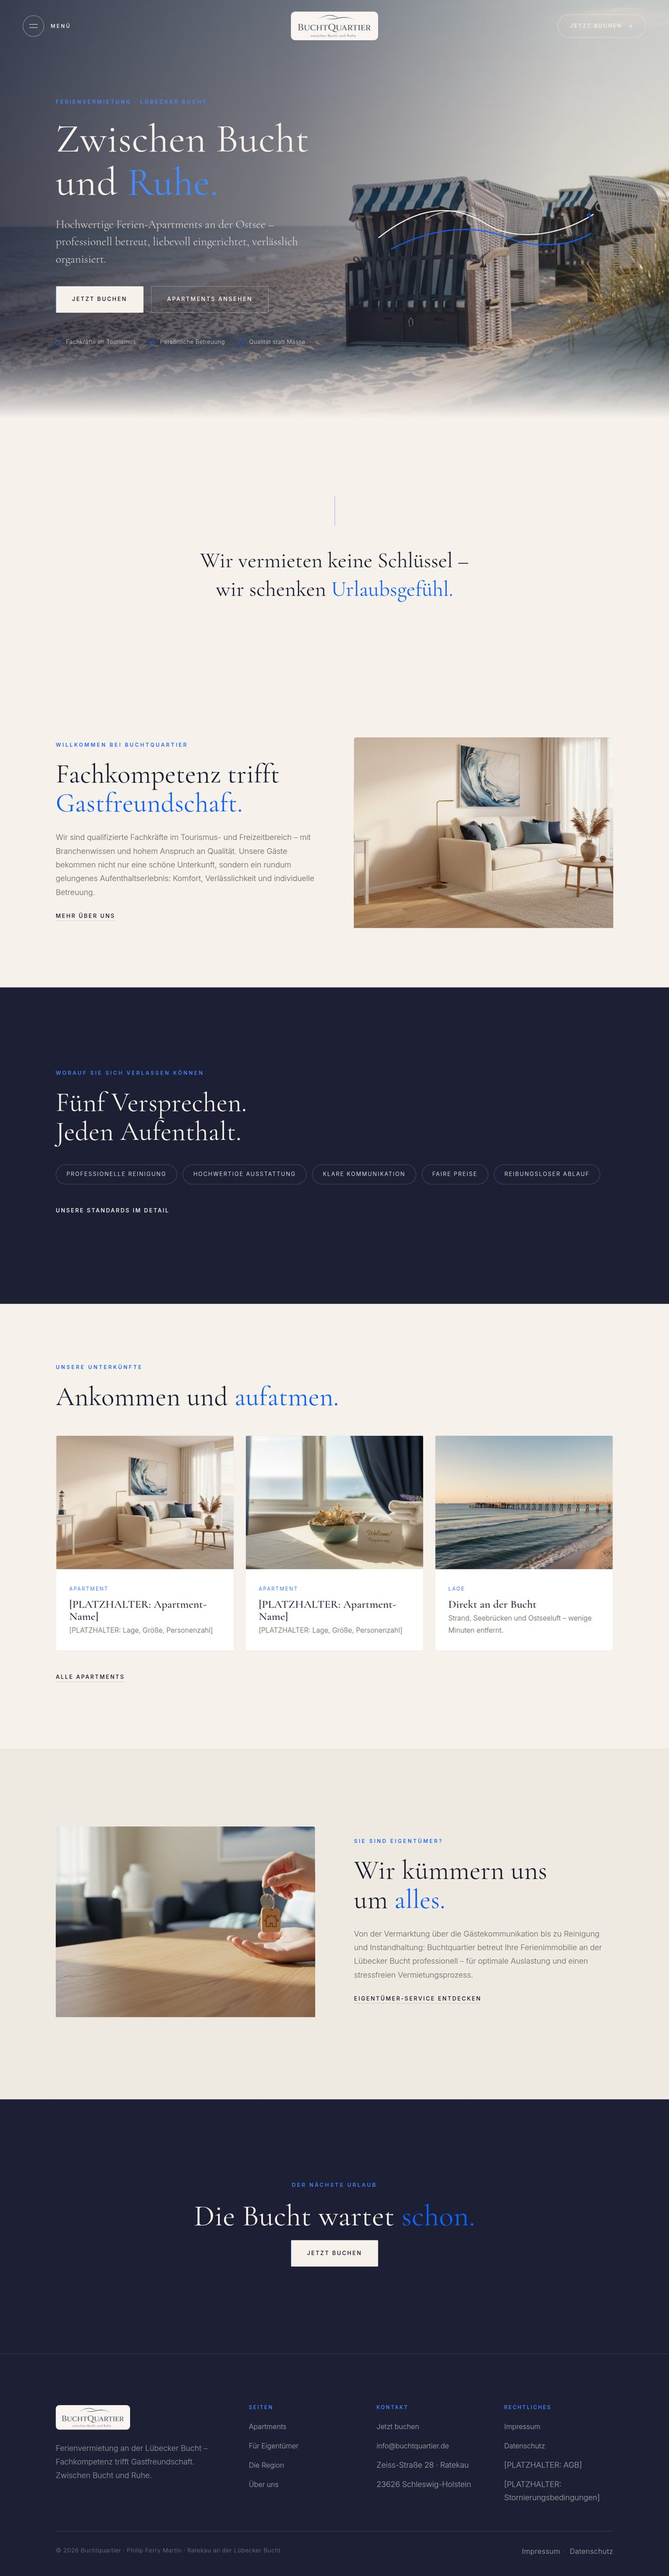
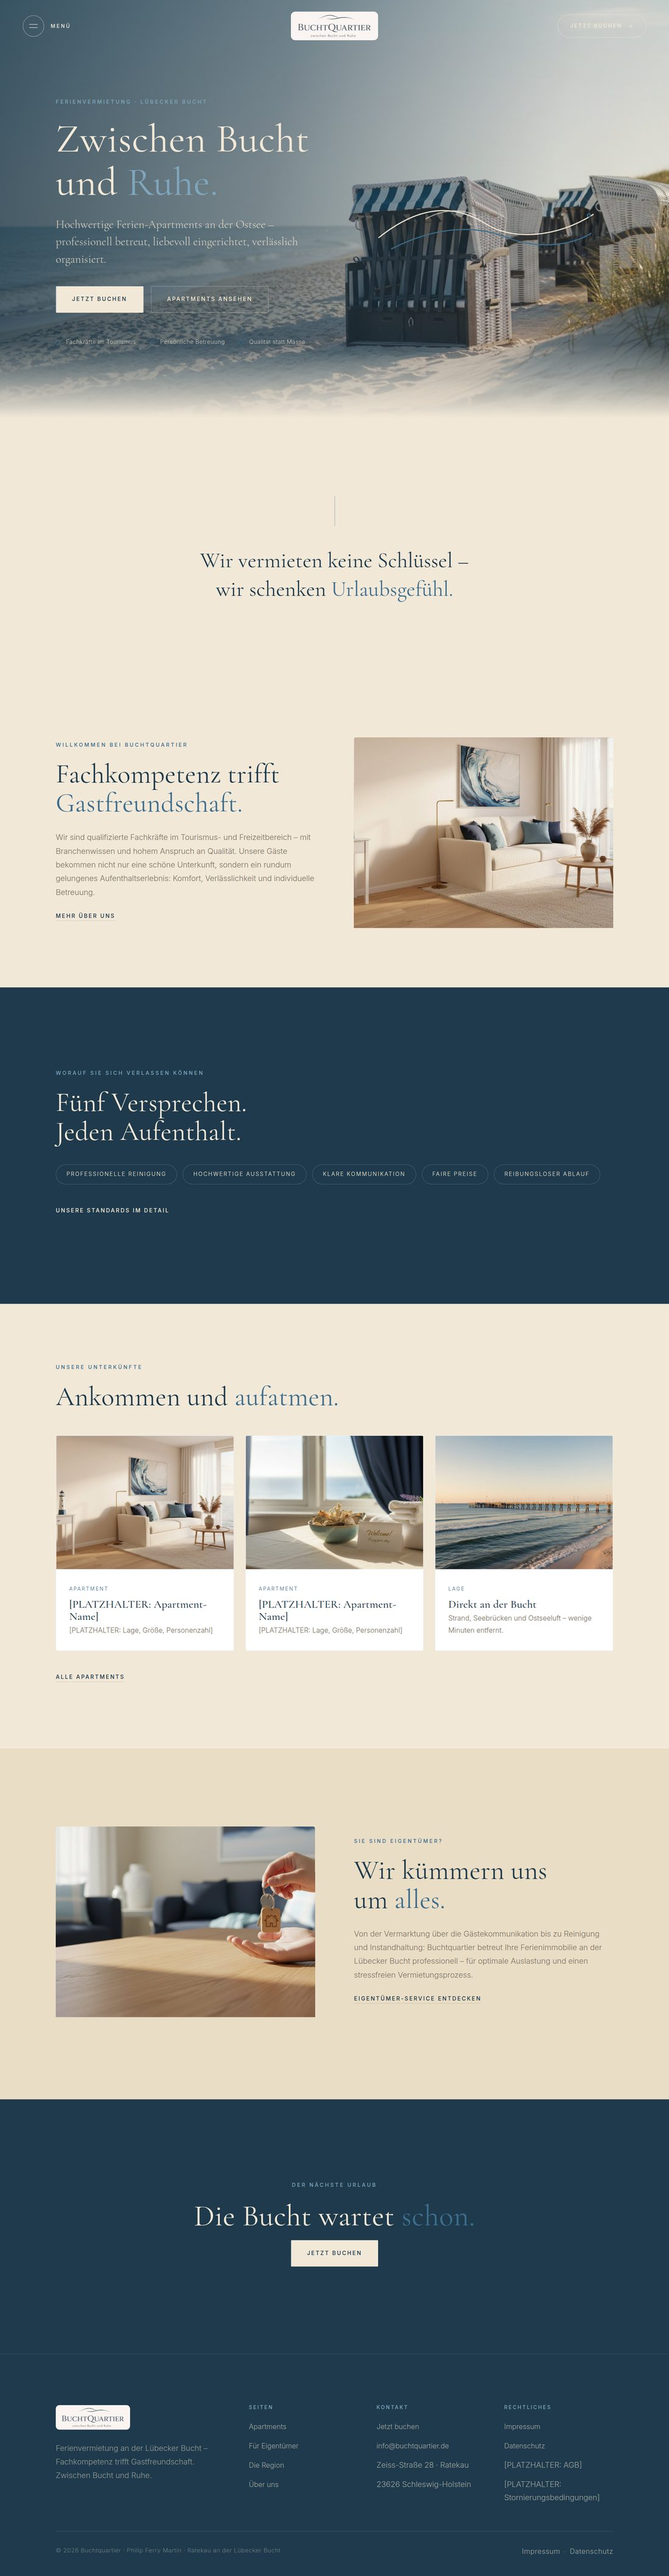
Buchtquartier: Sand-Palette mit dezentem Nautik-Blau (Strand & Erholung)
- Basis: warmer Sand #F2E8D8 / #EADDC6 statt Creme
- Dunkle Sektionen & Text: tiefes Nautik-Marine #1E3A4C statt Nachtblau-Schwarz
- Akzente: gedecktes Kuestenblau #3E6E8E / #7FA6BD statt Knallblau #0F62FE
- Linien, Veils und rgba-Werte konsistent nachgezogen

Claude-Session: https://claude.ai/code/session_019Zx2tMvw9H8ct4z7Y4RHUm

diff --git a/buchtquartier/css/style.css b/buchtquartier/css/style.css
@@ -5,19 +5,19 @@
    ============================================================ */
 
 :root {
-  --paper: #F7F1EB;      /* warmes Off-White (Basis) */
-  --paper-2: #EFEAE1;    /* etwas tiefer */
+  --paper: #F2E8D8;      /* warmes Off-White (Basis) */
+  --paper-2: #EADDC6;    /* etwas tiefer */
   --white: #FFFFFF;      /* Karten */
-  --night: #1D2035;      /* tiefes Nachtblau-Schwarz */
-  --night-2: #272B45;    /* Kontrast-Sektionen */
-  --gold: #0F62FE;       /* Champagner/Kupfer-Gold */
-  --gold-2: #4589FF;     /* helleres Gold (auf dunkel) */
-  --ink: #272B45;        /* Fließtext dunkel */
-  --muted: #6E6A63;      /* warmes Grau, Sekundärtext */
-  --muted-2: #9B958B;    /* noch leiser */
-  --line: rgba(27, 37, 48, 0.14);
-  --line-soft: rgba(27, 37, 48, 0.08);
-  --line-gold: rgba(15, 98, 254, 0.45);
+  --night: #1E3A4C;      /* tiefes Nachtblau-Schwarz */
+  --night-2: #27485D;    /* Kontrast-Sektionen */
+  --gold: #3E6E8E;       /* Champagner/Kupfer-Gold */
+  --gold-2: #7FA6BD;     /* helleres Gold (auf dunkel) */
+  --ink: #2E3A40;        /* Fließtext dunkel */
+  --muted: #7A7263;      /* warmes Grau, Sekundärtext */
+  --muted-2: #A89E8C;    /* noch leiser */
+  --line: rgba(62, 80, 90, 0.16);
+  --line-soft: rgba(62, 80, 90, 0.09);
+  --line-gold: rgba(62, 110, 142, 0.45);
   --serif: "Cormorant Garamond", Georgia, "Times New Roman", serif;
   --sans: "Inter", -apple-system, "Segoe UI", Arial, sans-serif;
   --header-h: 112px;
@@ -104,9 +104,9 @@ a:hover { color: var(--gold); }
 :focus-visible { outline: 2px solid var(--gold); outline-offset: 3px; }
 
 /* ---------- Kontrast-Sektionen (dunkel) ---------- */
-.dark { background: var(--night); color: rgba(247, 241, 235, 0.78); }
+.dark { background: var(--night); color: rgba(242, 232, 216, 0.78); }
 .dark h1, .dark h2, .dark h3, .dark h4 { color: var(--paper); }
-.dark .lead { color: rgba(247, 241, 235, 0.88); }
+.dark .lead { color: rgba(242, 232, 216, 0.88); }
 .dark a { color: var(--paper); }
 .dark a:hover { color: var(--gold-2); }
 .dark .eyebrow { color: var(--gold-2); }
@@ -129,9 +129,9 @@ a:hover { color: var(--gold); }
 }
 .site-header.solid .header-bar {
   width: 94%; height: 78px;
-  background: rgba(247, 241, 235, 0.94); backdrop-filter: blur(14px) saturate(1.1);
+  background: rgba(242, 232, 216, 0.94); backdrop-filter: blur(14px) saturate(1.1);
   border-radius: 0 0 22px 22px;
-  box-shadow: 0 30px 60px -40px rgba(29, 32, 53, 0.35);
+  box-shadow: 0 30px 60px -40px rgba(30, 58, 76, 0.35);
 }
 
 /* Logo-Lockup: Monogramm + Wortmarke + Unterzeile, absolut zentriert */
@@ -170,7 +170,7 @@ a:hover { color: var(--gold); }
   z-index: 320;
 }
 .mb-circle {
-  width: 46px; height: 46px; border: 1px solid rgba(29, 32, 53, 0.35);
+  width: 46px; height: 46px; border: 1px solid rgba(30, 58, 76, 0.35);
   border-radius: 50%; display: flex; flex-direction: column;
   align-items: center; justify-content: center; gap: 6px;
   transition: border-color 0.4s var(--ease), background 0.4s var(--ease);
@@ -185,7 +185,7 @@ a:hover { color: var(--gold); }
   letter-spacing: 0.26em; text-transform: uppercase; color: inherit;
 }
 body.nav-open .menu-btn { color: var(--paper); }
-body.nav-open .mb-circle { border-color: rgba(247, 241, 235, 0.55); }
+body.nav-open .mb-circle { border-color: rgba(242, 232, 216, 0.55); }
 body.nav-open .mb-circle span:nth-child(1) { transform: translateY(3.5px) rotate(45deg); }
 body.nav-open .mb-circle span:nth-child(2) { transform: translateY(-3.5px) rotate(-45deg); }
 
@@ -194,7 +194,7 @@ body.nav-open .mb-circle span:nth-child(2) { transform: translateY(-3.5px) rotat
   display: inline-flex; align-items: center; gap: 10px;
   font-family: var(--sans); font-size: 0.68rem; font-weight: 500;
   letter-spacing: 0.22em; text-transform: uppercase;
-  color: var(--night); border: 1px solid rgba(29, 32, 53, 0.35);
+  color: var(--night); border: 1px solid rgba(30, 58, 76, 0.35);
   border-radius: 999px; padding: 14px 26px;
   transition: background 0.4s var(--ease), color 0.4s var(--ease), border-color 0.4s var(--ease);
 }
@@ -218,7 +218,7 @@ body.nav-open .nav-overlay { opacity: 1; visibility: visible; transition-delay: 
 .main-nav a {
   display: inline-flex; align-items: baseline; gap: 18px;
   font-family: var(--serif); font-weight: 400;
-  font-size: clamp(1.7rem, 3.4vh, 2.5rem); color: rgba(247, 241, 235, 0.86);
+  font-size: clamp(1.7rem, 3.4vh, 2.5rem); color: rgba(242, 232, 216, 0.86);
   line-height: 1.2; transition: color 0.4s var(--ease), transform 0.5s var(--ease);
 }
 .main-nav .nl-num {
@@ -226,15 +226,15 @@ body.nav-open .nav-overlay { opacity: 1; visibility: visible; transition-delay: 
   color: var(--gold-2); transform: translateY(-0.7em); transition: color 0.4s var(--ease);
 }
 .main-nav a:hover, .main-nav a.active { color: var(--gold-2); }
-.main-nav a.active .nl-label { border-bottom: 1px solid rgba(69, 137, 255, 0.5); padding-bottom: 4px; }
+.main-nav a.active .nl-label { border-bottom: 1px solid rgba(127, 166, 189, 0.5); padding-bottom: 4px; }
 .nav-contact-li { margin-top: clamp(10px, 2.4vh, 26px); }
 .nav-contact-li a { font-style: italic; color: var(--gold-2); }
 .nav-overlay-foot {
   margin-top: clamp(26px, 5vh, 54px); display: flex; flex-wrap: wrap; gap: 10px 36px;
-  font-family: var(--sans); font-size: 0.78rem; color: rgba(247, 241, 235, 0.45);
+  font-family: var(--sans); font-size: 0.78rem; color: rgba(242, 232, 216, 0.45);
 }
 .main-nav .nav-overlay-foot a {
-  font-family: var(--sans); font-size: 0.78rem; color: rgba(247, 241, 235, 0.6);
+  font-family: var(--sans); font-size: 0.78rem; color: rgba(242, 232, 216, 0.6);
 }
 .main-nav .nav-overlay-foot a:hover { color: var(--gold-2); }
 /* Bei offenem Menü bleibt der Header sichtbar – hell über dem Nachtblau */
@@ -244,13 +244,13 @@ body.nav-open .brand { color: var(--paper); }
 body.nav-open .mono-svg .m-ink { stroke: var(--paper); }
 body.nav-open .mono-svg .m-gold { stroke: var(--gold-2); }
 body.nav-open .brand-sub { color: var(--gold-2); }
-body.nav-open .header-cta { border-color: rgba(247, 241, 235, 0.5); color: var(--paper); }
+body.nav-open .header-cta { border-color: rgba(242, 232, 216, 0.5); color: var(--paper); }
 body.nav-open .header-cta:hover { background: var(--paper); border-color: var(--paper); color: var(--night); }
 .nav-visual { position: relative; overflow: hidden; }
 .nav-visual img { width: 100%; height: 100%; object-fit: cover; opacity: 0.85; }
 .nav-visual::after {
   content: ""; position: absolute; inset: 0;
-  background: linear-gradient(90deg, var(--night) 0%, rgba(29, 32, 53, 0.25) 40%, rgba(29, 32, 53, 0.05) 100%);
+  background: linear-gradient(90deg, var(--night) 0%, rgba(30, 58, 76, 0.25) 40%, rgba(30, 58, 76, 0.05) 100%);
 }
 /* Links gleiten beim Öffnen gestaffelt herein */
 .nav-overlay .main-nav li { opacity: 0; transform: translateY(22px); transition: opacity 0.6s var(--ease), transform 0.7s var(--ease); }
@@ -280,7 +280,7 @@ body.nav-open { overflow: hidden; }
 .btn-line:hover { border-color: var(--night); color: var(--night); }
 .dark .btn-solid { background: var(--paper); color: var(--night); }
 .dark .btn-solid:hover { background: var(--gold); color: var(--night); }
-.dark .btn-line { border-color: rgba(247,241,235,0.32); color: var(--paper); }
+.dark .btn-line { border-color: rgba(242,232,216,0.32); color: var(--paper); }
 .dark .btn-line:hover { border-color: var(--gold-2); color: var(--gold-2); }
 
 /* Textlink mit Goldlinie */
@@ -314,7 +314,7 @@ body.nav-open { overflow: hidden; }
 .wire-wrap { position: relative; }
 .wire-frame {
   position: relative; background: var(--white); border: 1px solid var(--line);
-  border-radius: 4px; box-shadow: 0 40px 90px -50px rgba(29,32,53,0.5); padding: 22px;
+  border-radius: 4px; box-shadow: 0 40px 90px -50px rgba(30,58,76,0.5); padding: 22px;
   aspect-ratio: 4 / 3.4;
 }
 .wire-svg { width: 100%; height: 100%; display: block; }
@@ -365,7 +365,7 @@ body.nav-open { overflow: hidden; }
   padding: 40px clamp(28px,4vw,52px);
   transition: border-color 0.6s var(--ease), transform 0.6s var(--ease), box-shadow 0.6s var(--ease);
 }
-.layer:hover { border-color: var(--line-gold); box-shadow: 0 30px 60px -46px rgba(29,32,53,0.4); }
+.layer:hover { border-color: var(--line-gold); box-shadow: 0 30px 60px -46px rgba(30,58,76,0.4); }
 .layer-num { font-family: var(--serif); font-size: 2.4rem; color: var(--gold); line-height: 1; }
 .layer-body h3 { margin: 0 0 6px; }
 .layer-body p { margin: 0; color: var(--muted); max-width: 46ch; }
@@ -383,7 +383,7 @@ body.nav-open { overflow: hidden; }
 .shield-svg.draw .s-draw { animation: draw 1.8s var(--ease) forwards; }
 .shield-svg .s-check { fill: none; stroke: var(--gold-2); stroke-width: 2; stroke-linecap: round; stroke-dasharray: var(--len); stroke-dashoffset: var(--len); }
 .shield-svg.draw .s-check { animation: draw 0.7s var(--ease) 1.5s forwards; }
-.shield-svg .s-glow { fill: rgba(69,137,255,0.06); }
+.shield-svg .s-glow { fill: rgba(127,166,189,0.06); }
 .encrypt {
   font-family: var(--sans); letter-spacing: 0.24em; font-weight: 500; font-size: 0.82rem;
   color: var(--gold-2); text-transform: uppercase; margin-top: 22px; min-height: 1.4em;
@@ -392,7 +392,7 @@ body.nav-open { overflow: hidden; }
 .sec-item .sec-ico { color: var(--gold-2); margin-bottom: 12px; }
 .sec-item .sec-ico svg { width: 26px; height: 26px; }
 .sec-item h4 { color: var(--paper); font-family: var(--serif); font-weight: 500; margin: 0 0 6px; font-size: 1.25rem; }
-.sec-item p { margin: 0; font-size: 0.92rem; color: rgba(247,241,235,0.62); line-height: 1.6; }
+.sec-item p { margin: 0; font-size: 0.92rem; color: rgba(242,232,216,0.62); line-height: 1.6; }
 @media (max-width: 760px){ .sec-list { grid-template-columns: 1fr; gap: 26px; } }
 
 /* ---------- Innovation-Kacheln ---------- */
@@ -426,7 +426,7 @@ body.nav-open { overflow: hidden; }
   transition: border-color 0.4s var(--ease), color 0.4s var(--ease);
 }
 .chip:hover { border-color: var(--gold); color: var(--gold); }
-.dark .chip { color: var(--paper); border-color: rgba(247,241,235,0.2); }
+.dark .chip { color: var(--paper); border-color: rgba(242,232,216,0.2); }
 .dark .chip:hover { border-color: var(--gold-2); color: var(--gold-2); }
 
 /* ---------- Split (Bild + Text) ---------- */
@@ -483,8 +483,8 @@ body.nav-open { overflow: hidden; }
 .consent input { margin-top: 6px; width: 16px; height: 16px; accent-color: var(--gold); }
 .form-note { display: none; margin-top: 22px; padding: 16px 20px; border: 1px solid var(--line-gold); background: var(--white); color: var(--night); font-size: 0.95rem; }
 .form-note.show { display: block; }
-.dark .field label { color: rgba(247,241,235,0.6); }
-.dark .field input, .dark .field textarea, .dark .field select { color: var(--paper); border-color: rgba(247,241,235,0.2); }
+.dark .field label { color: rgba(242,232,216,0.6); }
+.dark .field input, .dark .field textarea, .dark .field select { color: var(--paper); border-color: rgba(242,232,216,0.2); }
 .dark .field input:focus, .dark .field textarea:focus { border-color: var(--gold-2); }
 
 /* ---------- Kontaktinfo ---------- */
@@ -502,8 +502,8 @@ body.nav-open { overflow: hidden; }
 .page-hero .lead { max-width: 40ch; margin-top: 22px; color: var(--muted); }
 
 /* ---------- Footer ---------- */
-.site-footer { background: var(--night); color: rgba(247,241,235,0.6); padding: clamp(70px,9vw,110px) 0 40px; }
-.footer-top { display: grid; grid-template-columns: 1.6fr 1fr 1fr 1fr; gap: 40px; padding-bottom: 56px; border-bottom: 1px solid rgba(247,241,235,0.12); }
+.site-footer { background: var(--night); color: rgba(242,232,216,0.6); padding: clamp(70px,9vw,110px) 0 40px; }
+.footer-top { display: grid; grid-template-columns: 1.6fr 1fr 1fr 1fr; gap: 40px; padding-bottom: 56px; border-bottom: 1px solid rgba(242,232,216,0.12); }
 .footer-lockup { display: inline-flex; align-items: center; gap: 14px; }
 .footer-lockup .mono-svg { width: 34px; height: 34px; }
 .footer-lockup .mono-svg .m-ink { stroke: var(--paper); }
@@ -512,12 +512,12 @@ body.nav-open { overflow: hidden; }
   font-family: var(--serif); font-size: 1.25rem; font-weight: 500; color: var(--paper);
   letter-spacing: 0.3em; text-transform: uppercase;
 }
-.footer-brand p { margin-top: 16px; max-width: 26em; color: rgba(247,241,235,0.55); }
+.footer-brand p { margin-top: 16px; max-width: 26em; color: rgba(242,232,216,0.55); }
 .site-footer h4 { font-family: var(--sans); font-size: 0.68rem; font-weight: 500; letter-spacing: 0.22em; text-transform: uppercase; color: var(--gold-2); margin-bottom: 20px; }
 .site-footer ul { list-style: none; margin: 0; padding: 0; display: grid; gap: 12px; }
-.site-footer a { color: rgba(247,241,235,0.62); font-size: 0.95rem; }
+.site-footer a { color: rgba(242,232,216,0.62); font-size: 0.95rem; }
 .site-footer a:hover { color: var(--gold-2); }
-.footer-bottom { display: flex; flex-wrap: wrap; gap: 14px; justify-content: space-between; padding-top: 30px; font-size: 0.8rem; letter-spacing: 0.04em; color: rgba(247,241,235,0.4); }
+.footer-bottom { display: flex; flex-wrap: wrap; gap: 14px; justify-content: space-between; padding-top: 30px; font-size: 0.8rem; letter-spacing: 0.04em; color: rgba(242,232,216,0.4); }
 
 /* ============================================================
    Scroll-Reveal (dezent, langsam)
@@ -550,25 +550,25 @@ body.nav-open { overflow: hidden; }
 @keyframes hero-drift { from { transform: scale(1); } to { transform: scale(1.07); } }
 .hero-veil {
   position: absolute; inset: 0;
-  background: linear-gradient(102deg, rgba(29,32,53,0.82) 0%, rgba(29,32,53,0.58) 40%, rgba(29,32,53,0.16) 78%, rgba(29,32,53,0.06) 100%);
+  background: linear-gradient(102deg, rgba(30,58,76,0.82) 0%, rgba(30,58,76,0.58) 40%, rgba(30,58,76,0.16) 78%, rgba(30,58,76,0.06) 100%);
 }
 .hero-veil::after {
   content: ""; position: absolute; inset: auto 0 0 0; height: 160px;
-  background: linear-gradient(rgba(247,241,235,0), var(--paper));
+  background: linear-gradient(rgba(242,232,216,0), var(--paper));
 }
 .hero-cine .hero-grid { position: relative; z-index: 1; }
 .hero-cine .eyebrow { color: var(--gold-2); }
 .hero-cine h1 { color: var(--paper); }
 .hero-cine h1 em { color: var(--gold-2); }
-.hero-cine .hero-sub { color: rgba(247,241,235,0.85); }
-.hero-cine .trust-row span { color: rgba(247,241,235,0.75); }
+.hero-cine .hero-sub { color: rgba(242,232,216,0.85); }
+.hero-cine .trust-row span { color: rgba(242,232,216,0.75); }
 .hero-cine .btn-solid { background: var(--paper); color: var(--night); }
 .hero-cine .btn-solid:hover { background: var(--gold); color: var(--night); }
-.hero-cine .btn-line { border-color: rgba(247,241,235,0.35); color: var(--paper); }
+.hero-cine .btn-line { border-color: rgba(242,232,216,0.35); color: var(--paper); }
 .hero-cine .btn-line:hover { border-color: var(--gold-2); color: var(--gold-2); }
 .hero-cine .wire-frame {
-  background: rgba(247,241,235,0.94); backdrop-filter: blur(10px) saturate(1.05);
-  border-color: rgba(247,241,235,0.35); box-shadow: 0 60px 120px -50px rgba(0,0,0,0.75);
+  background: rgba(242,232,216,0.94); backdrop-filter: blur(10px) saturate(1.05);
+  border-color: rgba(242,232,216,0.35); box-shadow: 0 60px 120px -50px rgba(0,0,0,0.75);
 }
 .scroll-cue {
   position: absolute; left: 50%; bottom: 24px; transform: translateX(-50%);
@@ -576,7 +576,7 @@ body.nav-open { overflow: hidden; }
 }
 .scroll-cue span {
   position: absolute; left: 0; top: -45%; width: 1px; height: 45%;
-  background: linear-gradient(rgba(69,137,255,0), var(--gold-2));
+  background: linear-gradient(rgba(127,166,189,0), var(--gold-2));
   animation: cue 2.8s cubic-bezier(0.6, 0.05, 0.35, 1) infinite;
 }
 @keyframes cue { 0% { top: -45%; } 65%, 100% { top: 110%; } }
@@ -588,21 +588,21 @@ body.nav-open { overflow: hidden; }
   background: var(--night); overflow: hidden;
 }
 .page-hero-cine .container { position: relative; z-index: 1; }
-.page-hero-cine .breadcrumbs { color: rgba(247, 241, 235, 0.55) !important; }
-.page-hero-cine .breadcrumbs a { color: rgba(247, 241, 235, 0.75); }
+.page-hero-cine .breadcrumbs { color: rgba(242, 232, 216, 0.55) !important; }
+.page-hero-cine .breadcrumbs a { color: rgba(242, 232, 216, 0.75); }
 .page-hero-cine .breadcrumbs a:hover { color: var(--gold-2); }
 .page-hero-cine h1 { color: var(--paper); }
 .page-hero-cine h1 em { color: var(--gold-2); }
-.page-hero-cine .lead { color: rgba(247, 241, 235, 0.82); }
+.page-hero-cine .lead { color: rgba(242, 232, 216, 0.82); }
 .page-hero-cine .hero-veil {
-  background: linear-gradient(100deg, rgba(29, 32, 53, 0.8) 0%, rgba(29, 32, 53, 0.52) 45%, rgba(29, 32, 53, 0.14) 82%, rgba(29, 32, 53, 0.05) 100%);
+  background: linear-gradient(100deg, rgba(30, 58, 76, 0.8) 0%, rgba(30, 58, 76, 0.52) 45%, rgba(30, 58, 76, 0.14) 82%, rgba(30, 58, 76, 0.05) 100%);
 }
 .page-hero-cine .hero-veil::after {
   content: ""; position: absolute; inset: auto 0 0 0; height: 120px;
-  background: linear-gradient(rgba(247, 241, 235, 0), var(--paper));
+  background: linear-gradient(rgba(242, 232, 216, 0), var(--paper));
 }
 .page-hero-cine.fade-night .hero-veil::after {
-  background: linear-gradient(rgba(29, 32, 53, 0), var(--night));
+  background: linear-gradient(rgba(30, 58, 76, 0), var(--night));
 }
 
 /* Header über dem dunklen Video hell */
@@ -611,8 +611,8 @@ body.cine .site-header:not(.solid) .mono-svg .m-ink { stroke: var(--paper); }
 body.cine .site-header:not(.solid) .mono-svg .m-gold { stroke: var(--gold-2); }
 body.cine .site-header:not(.solid) .brand-sub { color: var(--gold-2); }
 body.cine .site-header:not(.solid) .menu-btn { color: var(--paper); }
-body.cine .site-header:not(.solid) .mb-circle { border-color: rgba(247,241,235,0.5); }
-body.cine .site-header:not(.solid) .header-cta { border-color: rgba(247,241,235,0.5); color: var(--paper); }
+body.cine .site-header:not(.solid) .mb-circle { border-color: rgba(242,232,216,0.5); }
+body.cine .site-header:not(.solid) .header-cta { border-color: rgba(242,232,216,0.5); color: var(--paper); }
 body.cine .site-header:not(.solid) .header-cta:hover { background: var(--paper); border-color: var(--paper); color: var(--night); }
 
 /* ---------- Selbstzeichnende Icons (data-draw) ---------- */
@@ -656,7 +656,7 @@ body.cine .site-header:not(.solid) .header-cta:hover { background: var(--paper);
   transition: border-color 0.5s var(--ease), background 0.5s var(--ease), box-shadow 0.5s var(--ease);
 }
 .tl .layer.lit { border-color: var(--line-gold); }
-.tl .layer.lit::before { border-color: var(--gold); background: var(--gold); box-shadow: 0 0 0 5px rgba(15,98,254,0.15); }
+.tl .layer.lit::before { border-color: var(--gold); background: var(--gold); box-shadow: 0 0 0 5px rgba(62,110,142,0.15); }
 @media (max-width: 720px) {
   .tl { padding-left: 26px; }
   .tl::before, .tl .tl-line { left: 5px; }
@@ -791,7 +791,7 @@ html:not(.js) .hero-bg img { animation: none; }
 /* Echtes Logo (Creme-Platte) als Marke */
 .logo-plate {
   width: 188px; height: auto; display: block; border-radius: 10px;
-  box-shadow: 0 0 0 1px rgba(29, 32, 53, 0.08);
+  box-shadow: 0 0 0 1px rgba(30, 58, 76, 0.08);
   transition: width 0.45s var(--ease);
 }
 .site-header.solid .logo-plate { width: 146px; }
@@ -835,11 +835,11 @@ html:not(.js) .hero-bg img { animation: none; }
 .tilt .gcard { transition: opacity 1s var(--ease), transform 0.7s var(--ease), box-shadow 0.7s var(--ease); }
 .tilt .gcard.in:hover {
   transform: rotate(0deg) translateY(-6px) scale(1.015);
-  box-shadow: 0 46px 80px -44px rgba(29, 32, 53, 0.5);
+  box-shadow: 0 46px 80px -44px rgba(30, 58, 76, 0.5);
 }
 .tilt .gimg::before {
   content: ""; position: absolute; inset: 0; z-index: 1; pointer-events: none;
-  background: radial-gradient(circle at 50% 58%, rgba(15, 98, 254, 0.16), transparent 62%);
+  background: radial-gradient(circle at 50% 58%, rgba(62, 110, 142, 0.16), transparent 62%);
   opacity: 0; transition: opacity 0.8s var(--ease);
 }
 .tilt .gcard:hover .gimg::before { opacity: 1; }
@@ -854,7 +854,7 @@ html:not(.js) .hero-bg img { animation: none; }
 .needle-line span {
   position: absolute; top: 50%; left: 0; width: 7px; height: 7px; border-radius: 50%;
   background: var(--gold); transform: translate(-50%, -50%);
-  box-shadow: 0 0 0 5px rgba(15, 98, 254, 0.14);
+  box-shadow: 0 0 0 5px rgba(62, 110, 142, 0.14);
   transition: left 1.7s var(--ease) 0.2s;
 }
 .needle-line.draw span { left: 100%; }

diff --git a/buchtquartier/README.md b/buchtquartier/README.md
@@ -7,8 +7,9 @@ Unbelegtes als `[PLATZHALTER]` markiert.
 
 ## Design-System (Farben vom Original)
 
-- **Farben:** warmes Creme `#F7F1EB` (Logo-Platte) · Slate-Navy `#1D2035` (Original-
-  Textfarbe) · Blau `#0F62FE`/`#4589FF` (Original-Akzente) · Weiß (Karten)
+- **Farben:** warmer Sand `#F2E8D8`/`#EADDC6` (Basis – Strandgefühl) · tiefes
+  Nautik-Marine `#1E3A4C` (dunkle Sektionen & Text) · dezentes Küstenblau
+  `#3E6E8E`/`#7FA6BD` (feine Linien & Akzente) · Weiß (Karten)
 - **Logo:** das echte Buchtquartier-Logo (Wellen-Swoosh + Serifen-Wortmarke
   „zwischen Bucht und Ruhe") als zentrierte Creme-Platte im Fontenay-Header
 - **Typografie:** Cormorant Garamond + Inter (Bauweise-Standard)
